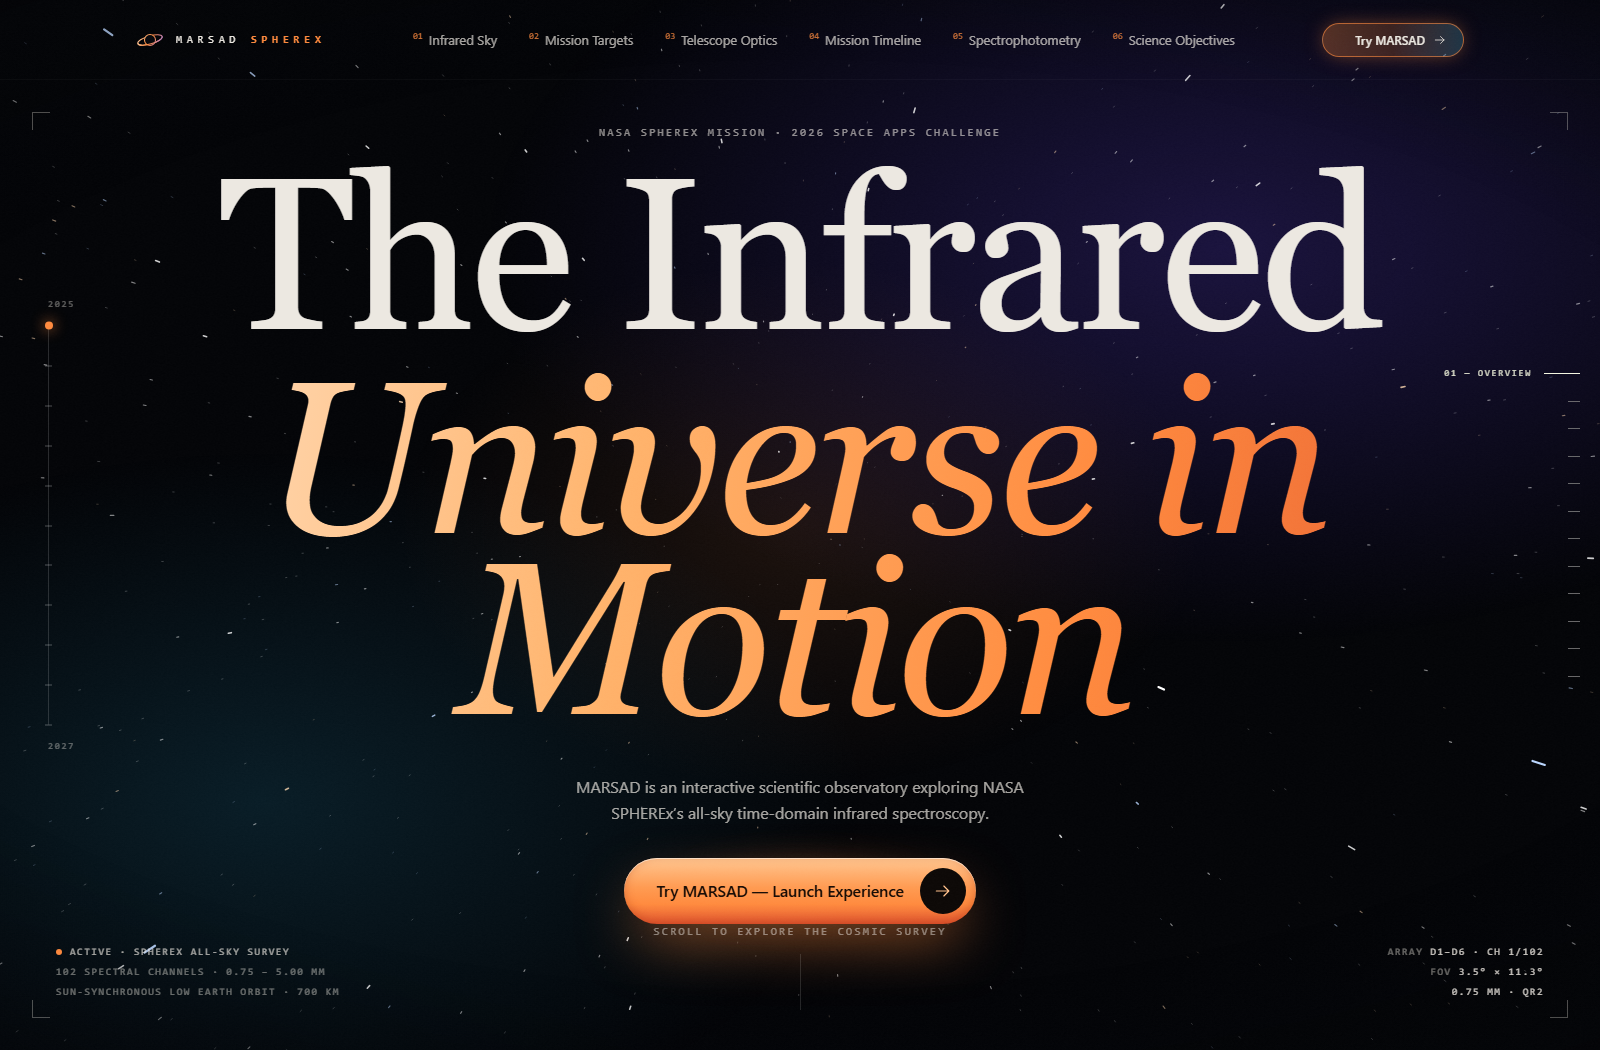
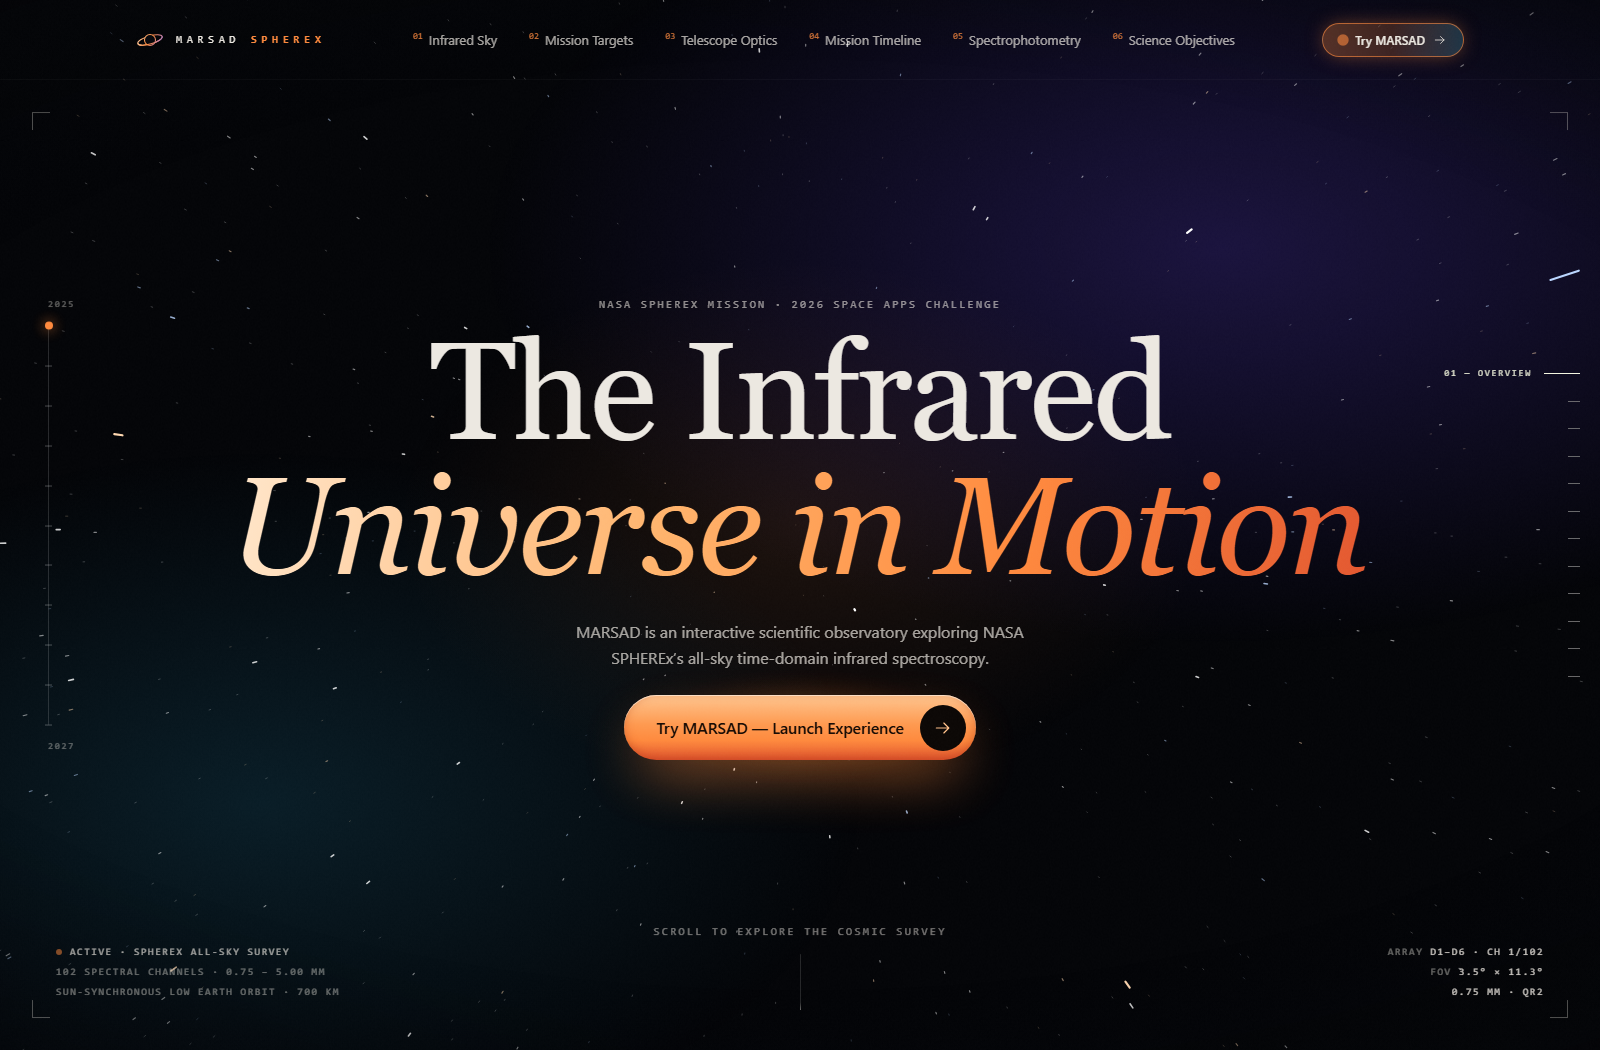
fix(scroll): fix Hero scroll animation layout and preserve sticky scroll across route transitions

Changed region(s): [[0.125, 0.1219, 0.875, 0.9143], [0.5938, 0.1219, 0.625, 0.1524]]

diff --git a/src/sections/Hero.tsx b/src/sections/Hero.tsx
@@ -330,7 +330,7 @@ export default function Hero({ ready }: { ready: boolean }) {
       if (title) {
         const o = 1 - smoothstep(0.015, 0.14, p);
         title.style.opacity = o.toFixed(3);
-        title.style.transform = `translate3d(0, ${(-p * 220).toFixed(1)}px, 0) scale(${(1 + p * 1.8).toFixed(4)})`;
+        title.style.transform = `translate3d(0, ${(-p * 160).toFixed(1)}px, 0) scale(${(1 + p * 0.85).toFixed(4)})`;
         title.style.visibility = o < 0.004 ? "hidden" : "visible";
       }
       if (cueRef.current) cueRef.current.style.opacity = (1 - smoothstep(0, 0.035, p)).toFixed(3);
@@ -453,11 +453,11 @@ export default function Hero({ ready }: { ready: boolean }) {
         </div>
 
         {/* Title */}
-        <div ref={titleRef} className="pointer-events-none absolute inset-0 flex flex-col items-center justify-center px-6 text-center will-change-transform">
+        <div ref={titleRef} className="pointer-events-none absolute inset-0 flex flex-col items-center justify-center px-6 pb-8 pt-10 text-center will-change-transform">
           <p className="hero-fade kicker text-bone/60" style={dv({ "--d": "250ms" })}>
             NASA SPHEREx Mission · 2026 Space Apps Challenge
           </p>
-          <h1 className="mt-6 font-serif text-[clamp(3.6rem,13.5vw,13.5rem)] leading-[0.84] tracking-[-0.02em]">
+          <h1 className="mt-5 font-serif text-[clamp(3rem,8.6vw,9.4rem)] leading-[0.88] tracking-[-0.02em]">
             <span className="hero-line">
               <span style={{ transitionDelay: "200ms" }}>The Infrared</span>
             </span>
@@ -467,11 +467,11 @@ export default function Hero({ ready }: { ready: boolean }) {
               </span>
             </span>
           </h1>
-          <p className="hero-fade mt-8 max-w-md text-[15px] leading-relaxed text-bone/70 md:text-base" style={dv({ "--d": "900ms" })}>
+          <p className="hero-fade mt-6 max-w-md text-[15px] leading-relaxed text-bone/70 md:text-base" style={dv({ "--d": "900ms" })}>
             MARSAD is an interactive scientific observatory exploring NASA SPHEREx’s all-sky time-domain infrared spectroscopy.
           </p>
 
-          <div className="hero-fade pointer-events-auto mt-8 flex flex-wrap items-center justify-center gap-4" style={dv({ "--d": "1050ms" })}>
+          <div className="hero-fade pointer-events-auto mt-6 flex flex-wrap items-center justify-center gap-4" style={dv({ "--d": "1050ms" })}>
             <Magnetic strength={0.38}>
               <span className="relative inline-block">
                 <span className="cta-halo" aria-hidden="true" />

diff --git a/src/pages/HomePage.tsx b/src/pages/HomePage.tsx
@@ -1,5 +1,5 @@
 import { useEffect, useState } from "react";
-import { initEngine, setScrollLocked } from "../lib/engine";
+import { clearInlineOverflowLocks, initEngine, refreshEngine, scrollToTarget, setScrollLocked } from "../lib/engine";
 import Loader from "../components/Loader";
 import FluidCursor from "../components/FluidCursor";
 import Nav from "../components/Nav";
@@ -17,21 +17,37 @@ import Systems from "../sections/Systems";
 import Vision from "../sections/Vision";
 import Finale from "../sections/Finale";
 
-export default function HomePage() {
-  const [ready, setReady] = useState(false);
+let hasCompletedInitialLoad = false;
 
-  // Boot the scroll engine; hold the page at the top while the loader runs.
+export default function HomePage() {
+  const [ready, setReady] = useState(() => hasCompletedInitialLoad);
+
+  // Boot the scroll engine; hold the page at the top while the loader runs on first visit.
   useEffect(() => {
     if ("scrollRestoration" in history) history.scrollRestoration = "manual";
-    window.scrollTo(0, 0);
+    clearInlineOverflowLocks();
     initEngine();
-    setScrollLocked(true);
+    scrollToTarget(0, { immediate: true });
+    if (!hasCompletedInitialLoad) {
+      setScrollLocked(true);
+    } else {
+      setScrollLocked(false);
+      refreshEngine();
+    }
+    return () => {
+      setScrollLocked(false);
+      clearInlineOverflowLocks();
+    };
   }, []);
 
-  // Once the curtain lifts: release scroll and arm the reveal observer.
+  // Once the curtain lifts: release scroll, refresh Lenis & sticky metrics, and arm the reveal observer.
   useEffect(() => {
     if (!ready) return;
+    hasCompletedInitialLoad = true;
+    clearInlineOverflowLocks();
     setScrollLocked(false);
+    refreshEngine();
+
     const els = document.querySelectorAll<HTMLElement>("[data-reveal]");
     const io = new IntersectionObserver(
       (entries) => {
@@ -42,7 +58,7 @@ export default function HomePage() {
           }
         });
       },
-      { rootMargin: "0px 0px -10% 0px", threshold: 0.01 }
+      { rootMargin: "0px 0px -8% 0px", threshold: 0.01 }
     );
     els.forEach((el) => io.observe(el));
     return () => io.disconnect();
@@ -50,7 +66,7 @@ export default function HomePage() {
 
   return (
     <>
-      <Loader onComplete={() => setReady(true)} />
+      {!hasCompletedInitialLoad && <Loader onComplete={() => setReady(true)} />}
       <FluidCursor />
       <div className="grain" aria-hidden="true" />
       <Nav ready={ready} />
@@ -72,4 +88,3 @@ export default function HomePage() {
     </>
   );
 }
-

diff --git a/src/lib/engine.ts b/src/lib/engine.ts
@@ -32,8 +32,33 @@ export const isCoarse = () =>
 export const prefersReducedMotion = () =>
   typeof window !== "undefined" && window.matchMedia("(prefers-reduced-motion: reduce)").matches;
 
+export function clearInlineOverflowLocks() {
+  if (typeof document === "undefined") return;
+  document.documentElement.style.removeProperty("overflow");
+  document.documentElement.style.removeProperty("overflow-y");
+  document.documentElement.style.removeProperty("overflow-x");
+  document.body.style.removeProperty("overflow");
+  document.body.style.removeProperty("overflow-y");
+  document.body.style.removeProperty("overflow-x");
+}
+
+export function refreshEngine() {
+  clearInlineOverflowLocks();
+  dirty = true;
+  lastY = -1;
+  lenis?.resize();
+  if (typeof window !== "undefined") {
+    const frame = { y: window.scrollY, vh: window.innerHeight, vw: window.innerWidth };
+    subscribers.forEach((fn) => fn(frame));
+  }
+}
+
 export function initEngine() {
-  if (started || typeof window === "undefined") return;
+  clearInlineOverflowLocks();
+  if (started || typeof window === "undefined") {
+    refreshEngine();
+    return;
+  }
   started = true;
 
   if (!prefersReducedMotion()) {
@@ -64,6 +89,9 @@ export function initEngine() {
 export function subscribe(fn: Subscriber) {
   subscribers.add(fn);
   dirty = true;
+  if (typeof window !== "undefined") {
+    fn({ y: window.scrollY, vh: window.innerHeight, vw: window.innerWidth });
+  }
   return () => {
     subscribers.delete(fn);
   };
@@ -84,17 +112,30 @@ export function scrollToTarget(
       force: true,
       easing: (t: number) => 1 - Math.pow(1 - t, 4),
     });
+    if (opts.immediate && typeof el === "number") {
+      window.scrollTo(0, el);
+    }
+    dirty = true;
     return;
   }
   const top =
     typeof el === "number" ? el : el.getBoundingClientRect().top + window.scrollY + (opts.offset ?? 0);
   window.scrollTo({ top, behavior: opts.immediate ? "auto" : "smooth" });
+  dirty = true;
 }
 
 export function setScrollLocked(locked: boolean) {
+  clearInlineOverflowLocks();
   if (lenis) {
     if (locked) lenis.stop();
-    else lenis.start();
+    else {
+      lenis.start();
+      lenis.resize();
+    }
   }
   document.documentElement.classList.toggle("scroll-locked", locked);
+  if (!locked) {
+    document.documentElement.classList.remove("lenis-stopped");
+    dirty = true;
+  }
 }

diff --git a/src/lib/router.tsx b/src/lib/router.tsx
@@ -1,4 +1,5 @@
 import { createContext, useContext, useEffect, useState, type ReactNode } from "react";
+import { clearInlineOverflowLocks, scrollToTarget, setScrollLocked } from "./engine";
 
 export type RoutePath = "/" | "/experience";
 
@@ -26,6 +27,8 @@ export function RouterProvider({ children }: { children: ReactNode }) {
 
   useEffect(() => {
     const handlePopState = () => {
+      clearInlineOverflowLocks();
+      setScrollLocked(false);
       setRoute(getRoute());
     };
     window.addEventListener("popstate", handlePopState);
@@ -37,14 +40,18 @@ export function RouterProvider({ children }: { children: ReactNode }) {
     const targetPath = path;
 
     if (currentPath !== targetPath || hash) {
+      clearInlineOverflowLocks();
+      setScrollLocked(false);
       const url = targetPath + (hash ? (hash.startsWith("#") ? hash : `#${hash}`) : "");
       window.history.pushState({}, "", url);
       setRoute(targetPath);
       if (!hash) {
-        window.scrollTo({ top: 0, behavior: "smooth" });
+        scrollToTarget(0, { immediate: true });
       } else {
-        const el = document.querySelector(hash);
-        if (el) el.scrollIntoView({ behavior: "smooth" });
+        window.setTimeout(() => {
+          const el = document.querySelector<HTMLElement>(hash);
+          if (el) scrollToTarget(el);
+        }, 60);
       }
     }
   };
@@ -61,4 +68,3 @@ export function RouterProvider({ children }: { children: ReactNode }) {
 export function useRouter() {
   return useContext(RouterContext);
 }
-

diff --git a/src/components/ui.tsx b/src/components/ui.tsx
@@ -123,8 +123,37 @@ export function CountUp({
   useEffect(() => {
     const el = ref.current;
     if (!el) return;
+    const fmt = (v: number) =>
+      prefix +
+      v.toLocaleString("en-US", {
+        minimumFractionDigits: decimals,
+        maximumFractionDigits: decimals,
+        useGrouping: group,
+      }) +
+      suffix;
     el.textContent = formattedTarget;
-  }, [formattedTarget, duration]);
+    let raf = 0;
+    const io = new IntersectionObserver(
+      ([entry]) => {
+        if (!entry.isIntersecting) return;
+        io.disconnect();
+        const t0 = performance.now();
+        const step = (now: number) => {
+          const t = Math.min(1, (now - t0) / duration);
+          const k = 1 - Math.pow(1 - t, 4);
+          el.textContent = t < 1 ? fmt(to * k) : formattedTarget;
+          if (t < 1) raf = requestAnimationFrame(step);
+        };
+        raf = requestAnimationFrame(step);
+      },
+      { threshold: 0.25 }
+    );
+    io.observe(el);
+    return () => {
+      io.disconnect();
+      cancelAnimationFrame(raf);
+    };
+  }, [to, decimals, duration, prefix, suffix, group, formattedTarget]);
 
   return (
     <span ref={ref} className={className}>

diff --git a/src/pages/ExperiencePage.tsx b/src/pages/ExperiencePage.tsx
@@ -1,13 +1,17 @@
 import { useEffect } from "react";
+import { clearInlineOverflowLocks, setScrollLocked } from "../lib/engine";
 import FluidCursor from "../components/FluidCursor";
 import SpherexHub from "../components/spherex/SpherexHub";
 
 export default function ExperiencePage() {
   useEffect(() => {
-    // Ensure scroll is completely unlocked on document & body
-    document.documentElement.classList.remove("scroll-locked");
-    document.documentElement.style.overflowY = "auto";
-    document.body.style.overflowY = "auto";
+    // Unlock any Lenis/loader scroll locks without setting inline overflow-y on body/html
+    // (inline overflow-y on body breaks CSS position:sticky when returning to HomePage)
+    setScrollLocked(false);
+    clearInlineOverflowLocks();
+    return () => {
+      clearInlineOverflowLocks();
+    };
   }, []);
 
   return (
